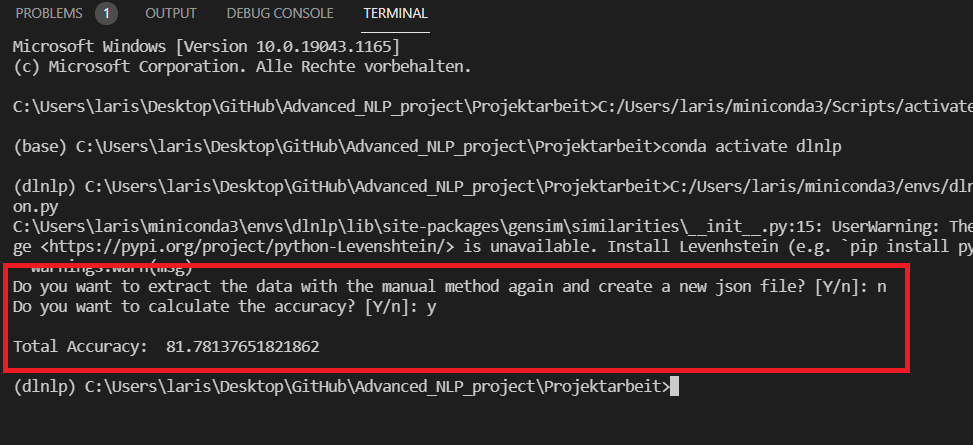
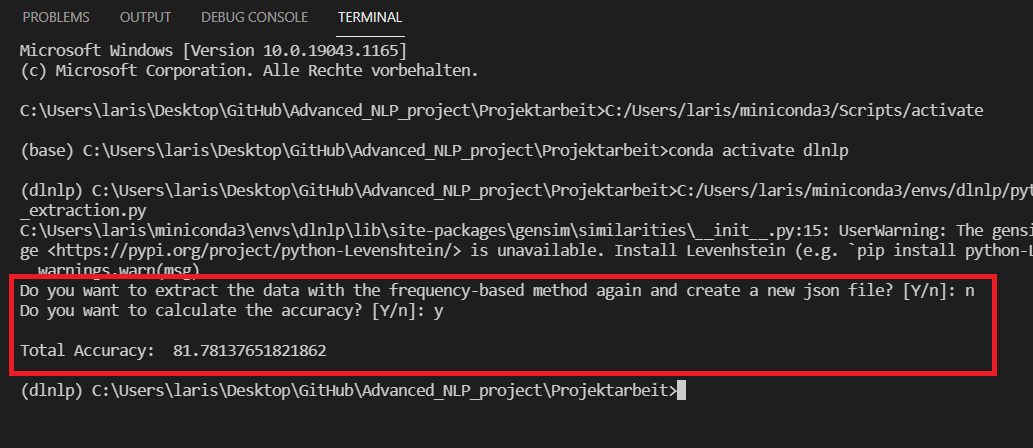
changed names and readme

diff --git a/Projektarbeit/frequency-based_extraction.py b/Projektarbeit/frequency-based_extraction.py
@@ -2,12 +2,12 @@ import preprocessing as pp
 import json
 import click
 
-def calulate_accuracy(manual):
-    """ A function that calculates the accuracy of the manual method.
+def calulate_accuracy(frequency_based):
+    """ A function that calculates the accuracy of the frequency-based method.
 
     Parameters
     ----------
-    manual : dict
+    frequency_based : dict
         Contains the Wikipedia titles (keys) and five most frequently used words (values).
 
     Returns
@@ -16,8 +16,9 @@ def calulate_accuracy(manual):
         'finalcount' contains number of cases, in which the title occured in at least one 
         of the five keywords. 247 is the number of all Wikipedia articles.
     """
-    titles = list(manual.keys())
-    keywords = list(manual.values())
+    number_wikiarticles = 247
+    titles = list(frequency_based.keys())
+    keywords = list(frequency_based.values())
 
     finalcount = 0
     for i in range(len(titles)):
@@ -28,11 +29,11 @@ def calulate_accuracy(manual):
         if tmp_count >= 1:
             finalcount += 1
 
-    return finalcount/247*100
+    return finalcount/number_wikiarticles*100
 
 
-def manual_extraction():
-    """ A function that extracts the five most frequently keywords of 
+def frequency_based_extraction():
+    """ A function that extracts the five most frequently keywords (lemmas) of 
     the Wikipedia texts and stores them together with the 
     titles in a json file.
 
@@ -55,19 +56,19 @@ def manual_extraction():
 
     final = dict(zip(title_list, keyword_list))     
 
-    with open('manual_extraction.json', 'w', encoding='utf-8') as f:
+    with open('frequency-based_extraction.json', 'w', encoding='utf-8') as f:
         json.dump(final, f, ensure_ascii=False, indent=4)
 
 
 
-##########################################################################################
-# Do you want to extract the data with the manual method again and create a new json file? 
-# Y - manual extraction starts and new json file is generated
+###################################################################################################
+# Do you want to extract the data with the frequency-based method again and create a new json file? 
+# Y - frequency-based extraction starts and new json file is generated
 # n - programm runs further with existing json file
-##########################################################################################
+####################################################################################################
 
-if click.confirm('Do you want to extract the data with the manual method again and create a new json file?', default=True):
-    manual_extraction()
+if click.confirm('Do you want to extract the data with the frequency-based method again and create a new json file?', default=True):
+    frequency_based_extraction()
 
 ##########################################
 # Do you want to calculate the accuracy? 
@@ -76,6 +77,6 @@ if click.confirm('Do you want to extract the data with the manual method again a
 ##########################################
 
 if click.confirm('Do you want to calculate the accuracy?', default=True):
-    f = open('manual_extraction.json', encoding='utf-8')
-    manual = json.load(f)
-    print("\nTotal Accuracy: ", calulate_accuracy(manual))
+    f = open('frequency-based_extraction.json', encoding='utf-8')
+    frequency_based = json.load(f)
+    print("\nTotal Accuracy: ", calulate_accuracy(frequency_based))

diff --git a/Projektarbeit/tf_idf_extraction.py b/Projektarbeit/tf_idf_extraction.py
@@ -113,6 +113,7 @@ for i in range(len(corpus)):
 realcount = 0
 
 for i in range(len(title)):
+    number_wikiarticles = 247
     count = 0
     for key in all_articles_keywords[i]:
         if key in title[i]:
@@ -120,4 +121,4 @@ for i in range(len(title)):
     if count >= 1:
         realcount += 1
 
-print("\nTotal Accuracy: ", realcount/247*100)
+print("\nTotal Accuracy: ", realcount/number_wikiarticles*100)

diff --git a/README.md b/README.md
@@ -1,10 +1,17 @@
 # Advanced NLP Project - Main Topic Extraction
-This repository contains two methods for main topic extraction with Wikipedia articles. One with tf-idf and the other one is manual (count most frequently words in text).  
+This repository contains two methods for main topic extraction with Wikipedia articles. One with tf-idf and the other one is frequency-based (count most frequently words/lemmas in text).  
 In the further course, the two methods are compared with each other on the basis of some statistics.
 
 #### Table of Contents
+-[Data](#data)
 - [Installation](#installation)
 - [Usage](#usage)
+
+
+## Data
+The data (Wikipedia articles) were generated by [this page](https://de.wikipedia.org/wiki/Spezial:Exportieren). 
+Through the page you get the articles sorted by a category, e.g. 'Klettern', written into an XML file. 
+
 
 ## Installation 
 Download all the files on this GitHub repository.  
@@ -21,8 +28,8 @@ In the end, the title of the Wikipedia articles will be printed together with th
 ![Step3](/Projektarbeit/images/step3.PNG)  
   
   
-### manual method
-If you want to use the manual method, you have to run the code in 'manual_extraction.py'. You will be asked, if you want to extract the data with the manual method again or if you want to use the existing data in the json file 'manual_extraction.json'.  
-If you press 'y' a new json file 'manual_extraction.json' will be created with the titles of the Wikipedia articles and the five most frequently occuring words in the Wikipedia texts.   
+### frequency-based method
+If you want to use the frequency-based method, you have to run the code in 'frequency-based_extraction.py'. You will be asked, if you want to extract the data with the frequency-based method again or if you want to use the existing data in the json file 'frequency-based_extraction.json'.  
+If you press 'y' a new json file 'frequency-based_extraction.json' will be created with the titles of the Wikipedia articles and the five most frequently occuring words/lemmas in the Wikipedia texts.   
 After that you will be asked, if you want to calculate the accuracy for this method. If you press 'y' the total accuracy will be printed.
 ![Step4](/Projektarbeit/images/step4.PNG)
